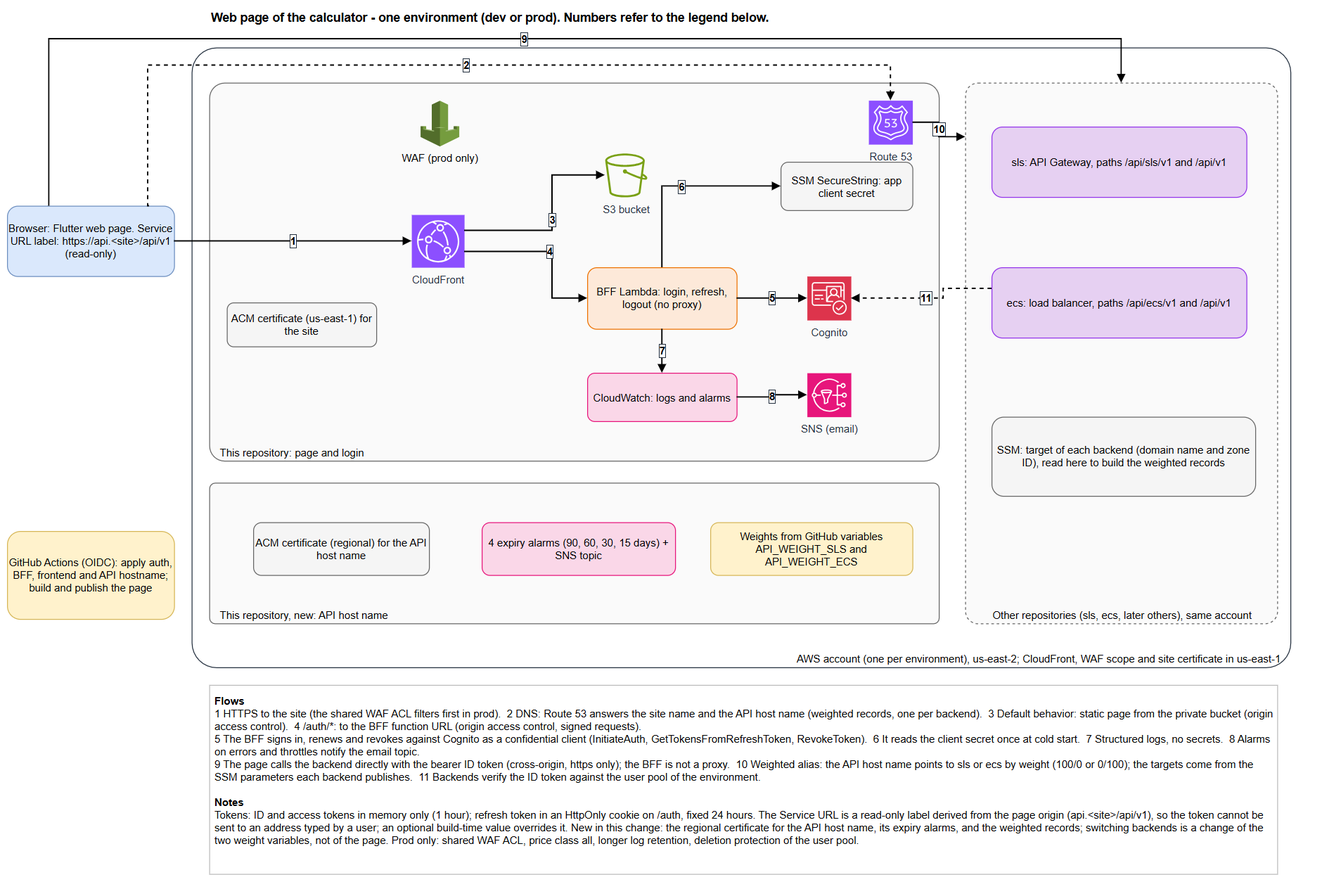
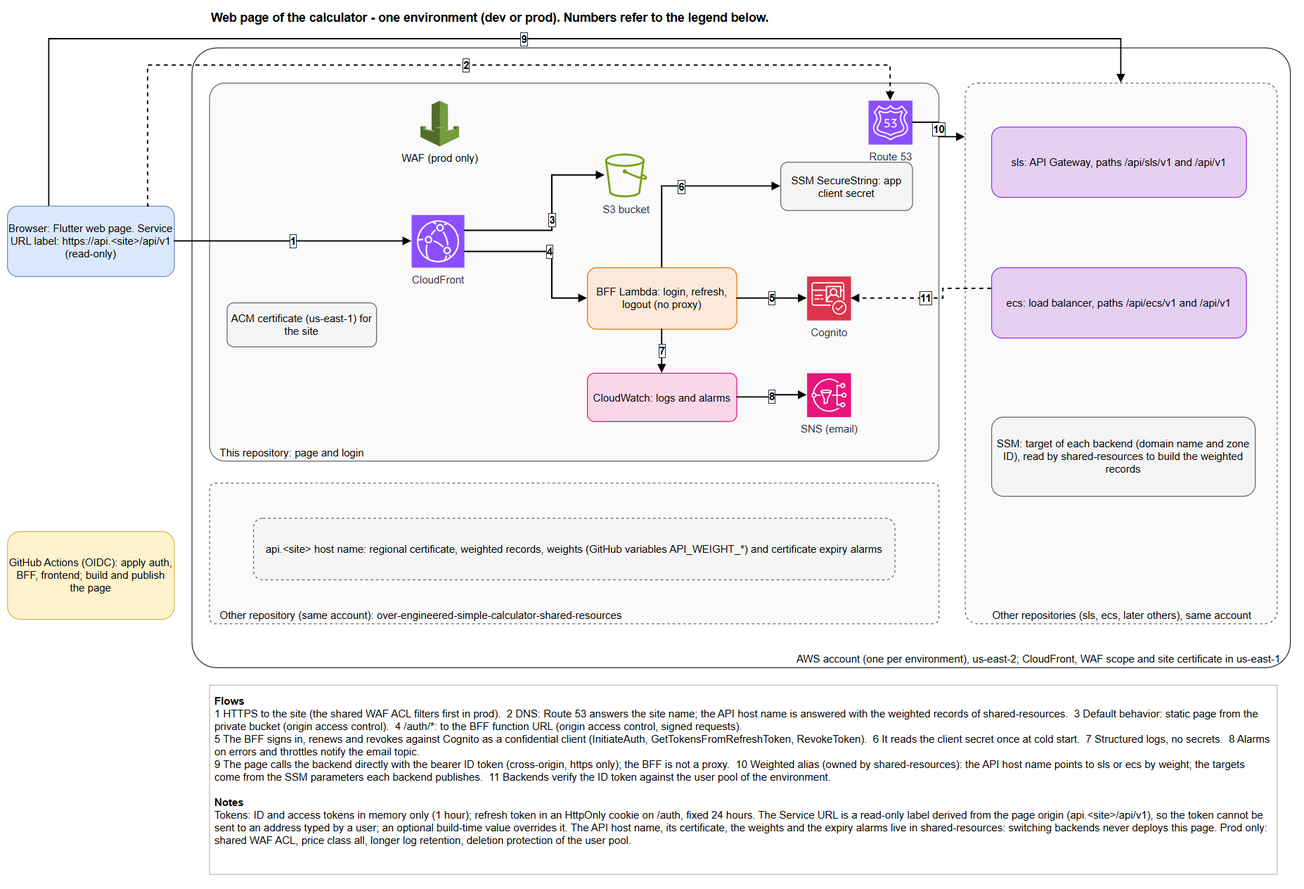
Remove the API edge from this repository after its handover to shared-resources

diff --git a/docs/architecture.md b/docs/architecture.md
@@ -8,7 +8,7 @@ Diagram: [`architecture.drawio`](architecture.drawio) (exported as `architecture
 
 The BFF (backend for frontend) is **an AWS Lambda function deployed by this repository** (`modules/auth-bff`, code in `src/auth_bff`). It runs **behind the page's CloudFront distribution**: CloudFront routes `/auth/*` to the function's function URL and everything else to the S3 bucket. It is **not code running inside CloudFront** (not a CloudFront Function and not Lambda@Edge).
 
-Its only job is the session: login, refresh and logout against Amazon Cognito, keeping the long-lived refresh token in an `HttpOnly` cookie. It authenticates to Cognito as a confidential app client: the client secret lives in an SSM SecureString parameter and the BFF reads it once at cold start (see [ADR 0004](adr/0004-confidential-app-client.md)). It is not a proxy: the page calls the chosen backend (sls, ecs, ...) directly with a bearer token, so the page stays shared between backends. Which backend answers is decided in Route 53 by the weighted records of the shared API hostname, owned by this repository (see [Shared API hostname](#shared-api-hostname)).
+Its only job is the session: login, refresh and logout against Amazon Cognito, keeping the long-lived refresh token in an `HttpOnly` cookie. It authenticates to Cognito as a confidential app client: the client secret lives in an SSM SecureString parameter and the BFF reads it once at cold start (see [ADR 0004](adr/0004-confidential-app-client.md)). It is not a proxy: the page calls the chosen backend (sls, ecs, ...) directly with a bearer token, so the page stays shared between backends. Which backend answers is decided in Route 53 by the weighted records of the shared API hostname, owned by the repository `over-engineered-simple-calculator-shared-resources` (see [Shared API hostname](#shared-api-hostname)).
 
 ## Components
 
@@ -21,9 +21,8 @@ Its only job is the session: login, refresh and logout against Amazon Cognito, k
 | Cognito user pool + confidential app client | this repo, us-east-2 | Local users created by the owner. Issues the tokens. The client has a secret, so only the BFF can sign in, renew or revoke. |
 | SSM parameter (SecureString) | this repo, us-east-2 | Holds the app client secret (`/<context>/<env>/auth/app-client-secret`, standard tier, AWS managed key). Read by the BFF role only. |
 | CloudWatch logs and alarms | us-east-2 | One JSON line per request; alarms on Errors and Throttles notify a dedicated SNS topic (us-east-2, email). |
-| API certificate | this repo (`modules/api-hostname`), us-east-2 | Regional ACM certificate for `api.<web domain>`, DNS validated; ARN published in SSM `/oecalc/<env>/api-certificate-arn` for the backends. Expiry alarms with a us-east-2 SNS topic. |
-| Weighted API records | this repo, Route 53 | One weighted `A` alias per backend that has published its target; weights from `API_WEIGHT_SLS` and `API_WEIGHT_ECS`. |
-| Backends (sls, ecs, ...) | other repositories | Publish their target in SSM (`/oecalc/<env>/api-backends/<backend>/...`); answer the neutral path `/api/v1`. Validate the ID token with the pool of their environment (`COGNITO_USER_POOL_ID`, `COGNITO_APP_CLIENT_ID`). |
+| API hostname, certificate and weighted records | `over-engineered-simple-calculator-shared-resources` (not this repo) | `api.<web domain>`, its regional certificate, the weighted records and their expiry alarms. Moved there on 2026-10-07. |
+| Backends (sls, ecs, ...) | other repositories | Answer the neutral path `/api/v1` on that hostname. Validate the ID token with the pool of their environment (`COGNITO_USER_POOL_ID`, `COGNITO_APP_CLIENT_ID`). |
 
 ## Trust boundaries
 
@@ -74,7 +73,7 @@ sequenceDiagram
     Note over P: ID and access token kept in memory only
 
     Note over P,API: Use
-    P->>API: calculation or history at api.<site>/api/v1 with Authorization Bearer ID token (Route 53 weights pick sls or ecs)
+    P->>API: calculation or history at api.<site>/api/v1 with Authorization Bearer ID token (the weights in Route 53, owned by shared-resources, pick sls or ecs)
 
     Note over P,B: Refresh (page start, or ID token expires in less than 60 s, or backend 401)
     P->>CF: POST /auth/refresh (browser adds the cookie)
@@ -109,7 +108,7 @@ All differences are in `environments/<env>/env.hcl`; the Terragrunt units are id
 
 ## Resource inventory
 
-One row per resource (or group) created or changed by this repository. Name pattern: `<acronym>-<region>-<context>[-<descriptor>]-<env>` with `<region>` written without hyphens (`useast2`), `<context>` = `oecalc` and `<env>` = `dev` or `prod`. `<account-id>` is the AWS account of the environment. Status: **new** = added by spec 001-cognito-auth-bff or, where marked, by spec 002-ecs-backend-cutover; **changed** = existed before and was modified; **kept** = pre-existing and unchanged by the spec. Every resource carries the mandatory tags from `environments/root.hcl` (`team-owner`, `project-name`, `app-name`, `repo-name`, `env-type`).
+One row per resource (or group) created or changed by this repository. Name pattern: `<acronym>-<region>-<context>[-<descriptor>]-<env>` with `<region>` written without hyphens (`useast2`), `<context>` = `oecalc` and `<env>` = `dev` or `prod`. `<account-id>` is the AWS account of the environment. Status: **new** = added by spec 001-cognito-auth-bff; **changed** = existed before and was modified; **kept** = pre-existing and unchanged by the spec. Every resource carries the mandatory tags from `environments/root.hcl` (`team-owner`, `project-name`, `app-name`, `repo-name`, `env-type`).
 
 | Resource | IaC type | Real name (pattern) | Purpose | Env / dev vs prod | Status / cost note |
 |---|---|---|---|---|---|
@@ -133,16 +132,9 @@ One row per resource (or group) created or changed by this repository. Name patt
 | ACM certificate and validation | `aws_acm_certificate`, `aws_acm_certificate_validation` (us-east-1) | Name tag `acm-useast2-oecalc-web-<env>` | TLS for the custom domain, DNS validated, RSA 2048 | dev and prod, domain differs | kept |
 | Route 53 records | `aws_route53_record` (validation CNAME, `A` and `AAAA` alias) | the environment's domain name, in the hosted zone `<route53-zone-id>` of the account | DNS to CloudFront | dev and prod, domain differs | kept |
 | Web alert topic and certificate alarms | `aws_sns_topic`, policy, email subscription, `aws_cloudwatch_metric_alarm` x4 (us-east-1) | `sns-useast1-oecalc-web-alerts-<env>`, `alrm-useast1-oecalc-web-cert-expiry-<N>d-<env>` with N = 90, 60, 30, 15 (four alarms) | Certificate expiry (ACM metric exists only in us-east-1) | dev and prod, same | kept |
-| API certificate | `aws_acm_certificate` (us-east-2) | Name tag `acm-useast2-oecalc-api-<env>`; domain `api.<web domain>` | Regional TLS certificate of the shared API hostname, RSA 2048, DNS validated, `create_before_destroy` | dev and prod, domain differs | new (002); free |
-| API certificate validation | `aws_route53_record` (CNAME, `allow_overwrite`), `aws_acm_certificate_validation` | validation name generated by ACM, in the environment's hosted zone | Validates the API certificate; the record may already exist (written before by the sls repository) and must not be deleted while another certificate uses it | dev and prod, same | new (002) |
-| API certificate ARN parameter | `aws_ssm_parameter` (`String`, standard) | `/oecalc/<env>/api-certificate-arn`; Name tag `ssm-useast2-oecalc-api-certificate-arn-<env>` | Contract: backends read the ARN to attach the certificate to their custom domain | dev and prod, same | new (002); no charge |
-| Weighted API records | `aws_route53_record` (`A` alias, weighted, `for_each` over published backends) | `api.<web domain>`, set identifier `sls` or `ecs` | Route traffic by weight; target read from `/oecalc/<env>/api-backends/<backend>/{dns-name,hosted-zone-id}`; a backend that has not published is skipped | weights from `API_WEIGHT_SLS` and `API_WEIGHT_ECS`; dev currently sls 0, ecs 100 | new (002); alias queries to AWS targets are not charged, hosted zone unchanged |
-| Weights guard | `terraform_data` with a precondition | `weights_guard` (no cloud resource) | Fails the plan when every published backend has weight 0 | dev and prod, same | new (002) |
-| API alert topic | `aws_sns_topic`, policy, email subscription (us-east-2) | `sns-useast2-oecalc-api-alerts-<env>` | Notifies the certificate expiry alarms; policy allows `cloudwatch.amazonaws.com` of this account and denies insecure transport | dev and prod, same | new (002); AWS managed encryption only (same as G8) |
-| API certificate expiry alarms | `aws_cloudwatch_metric_alarm` x4 | `alrm-useast2-oecalc-api-cert-expiry-<N>d-<env>`, N = 90, 60, 30, 15 | `DaysToExpiry` below N days (certificate moved here from sls with its monitoring) | dev and prod, same | new (002); standard alarm price each |
-| Terraform state | S3 bucket `bckt-useast2-tf-state-<env>-<account-id>` (outside this repository) | one state file per unit, key `over-engineered-simple-calculator-webpage/<env>/<unit path>/terraform.tfstate` (`edge/auth`, `edge/auth-bff`, `edge/frontend`, `api-hostname`) | Remote state with native locking; also holds the client secret in clear text (gap G10) | dev and prod | kept |
+| Terraform state | S3 bucket `bckt-useast2-tf-state-<env>-<account-id>` (outside this repository) | one state file per unit, key `over-engineered-simple-calculator-webpage/<env>/<unit path>/terraform.tfstate` (`edge/auth`, `edge/auth-bff`, `edge/frontend`) | Remote state with native locking; also holds the client secret in clear text (gap G10) | dev and prod | kept |
 
-Removed: no Terraform resource was removed by specs 001 or 002. In the page, the API key field and header were replaced by the Cognito login (001) and the editable Service URL field by a read-only label (002).
+Removed from the state of this repository (spec 003-move-api-edge-out, not deleted in AWS; now owned by `over-engineered-simple-calculator-shared-resources`): the API certificate and its validation, the SSM parameter `/oecalc/<env>/api-certificate-arn`, the weighted API records, the weights guard, the API alert topic (policy and subscription) and the four API certificate expiry alarms. The pattern is in [`migrations/`](migrations/README.md). In the page, the API key field and header were replaced by the Cognito login (001) and the editable Service URL field by a read-only label (002).
 
 ### Known gaps in the inventory
 
@@ -153,13 +145,13 @@ Removed: no Terraform resource was removed by specs 001 or 002. In the page, the
 
 ## Deployment units
 
-`environments/<env>/edge/auth` (Cognito) -> `edge/auth-bff` (Lambda, alarms; needs the app client ID) -> `edge/frontend` (S3, CloudFront, certificate, DNS; needs the function name and URL host). Terragrunt orders them by dependency. `environments/<env>/api-hostname` (API certificate, weighted records, alarms) depends on none of them. The Lambda permission for CloudFront lives in `modules/frontend` because it needs the distribution ARN.
+`environments/<env>/edge/auth` (Cognito) -> `edge/auth-bff` (Lambda, alarms; needs the app client ID) -> `edge/frontend` (S3, CloudFront, certificate, DNS; needs the function name and URL host). Terragrunt orders them by dependency. The Lambda permission for CloudFront lives in `modules/frontend` because it needs the distribution ARN.
 
 ## Shared API hostname
 
-`api.<web domain>` (for example `api.over-engineered-simple-calculator.dev.nube-segura.com` in dev) is owned by this repository ([ADR 0006](adr/0006-weights-owned-by-the-webpage-repository.md)). It resolves through weighted alias records, one per backend (`sls`, `ecs`, later others), to the load balancer or API Gateway domain that the backend publishes in SSM. All backends answer `/api/v1` ([ADR 0007](adr/0007-neutral-api-path.md)) and use the shared regional certificate whose ARN is in `/oecalc/<env>/api-certificate-arn`. Changing the GitHub variables `API_WEIGHT_SLS` and `API_WEIGHT_ECS` and redeploying this repository moves traffic; neither the page nor the backends change. dev currently sends all traffic to ecs (sls 0, ecs 100).
+`api.<web domain>` (for example `api.over-engineered-simple-calculator.dev.nube-segura.com` in dev) is **not owned by this repository any more**. Since 2026-10-07 the repository `over-engineered-simple-calculator-shared-resources` owns the hostname, its regional certificate (ARN in SSM `/oecalc/<env>/api-certificate-arn`), the weighted alias records, the weights and the certificate expiry alarms, and supersedes [ADR 0006](adr/0006-weights-owned-by-the-webpage-repository.md). All backends answer `/api/v1` ([ADR 0007](adr/0007-neutral-api-path.md)). A backend's record is created from shared-resources and changing weights never rebuilds the page.
 
-The module refuses to plan when every published backend has weight 0. **Known limitation:** a backend's record appears only when this repository is deployed after the backend has published its SSM target (two-phase first deployment). A recorded, undecided option removes it with stable predictable targets and a separate path-filtered workflow for DNS and weights.
+What stays here: the page computes the read-only Service URL from its own host and sends the ID token to it; Cognito and the BFF issue the token. This repository forgot the moved resources with `removed` blocks (`destroy = false`), see [migrations](migrations/README.md).
 
 ## Error handling in the BFF
 
@@ -175,4 +167,4 @@ These items are built but have not been checked against a deployed environment:
 - the `boto3` version of the Lambda runtime (it must include `get_tokens_from_refresh_token`; otherwise boto3 must be packaged);
 - whether the Cognito console can mark a new user's password as permanent;
 - that Cognito refuses a direct `InitiateAuth` for the client without the secret hash (task 6.6).
-- the shared API hostname in a deployed environment (certificate issued, weighted records, handover of the existing sls record); verification of `dev` is tracked in the spec, not confirmed here.
+- that the first deployment of each environment after spec 003 shows no changes for the moved resources (the `removed` blocks were applied only after shared-resources adopted them); tracked in the spec, not confirmed here.

diff --git a/README.md b/README.md
@@ -16,7 +16,7 @@ The address is calculated in `lib/api_address.dart`: `api.` plus the host of the
 
 Each calculation does `POST <Service URL>/<add|sub|mul|div>` with `{"a": <number>, "b": <number>}` and the header `Authorization: Bearer <ID token>`. The page sends the token only to `https` addresses (or `http://localhost` and `http://127.0.0.1` for a local override); any other address is refused and no request is made. The backends validate the token against the Cognito user pool of their environment (see [Login flow](#login-flow)).
 
-Which backend answers is decided in Route 53, not in the page: see [Shared API hostname](#shared-api-hostname).
+Which backend answers is decided in Route 53, not in the page. The API hostname, its certificate and the weights belong to another repository: see [Shared API hostname](#shared-api-hostname).
 
 ### Login flow
 
@@ -53,16 +53,14 @@ src/auth_bff/              BFF Lambda (Python): handler.py, src/auth_bff/, tests
 modules/frontend/          Terraform module: S3, CloudFront (OAC, /auth/* behavior), ACM, Route 53
 modules/auth/              Terraform module: Cognito user pool and app client
 modules/auth-bff/          Terraform module: BFF Lambda, function URL, role, logs, SNS topic, alarms
-modules/api-hostname/      Terraform module: API certificate, weighted records per backend, expiry alarms
 environments/
   root.hcl                 Provider, S3 remote state, naming and mandatory tags
-  common/*.hcl             Shared unit configs (frontend, auth, auth-bff, api-hostname)
+  common/*.hcl             Shared unit configs (frontend, auth, auth-bff)
   dev/env.hcl, prod/env.hcl  Only place where environments differ
   <env>/edge/frontend/     Thin Terragrunt unit
   <env>/edge/auth/         Thin Terragrunt unit
   <env>/edge/auth-bff/     Thin Terragrunt unit
-  <env>/api-hostname/      Thin Terragrunt unit (independent of the edge units)
-docs/                      Architecture, technical and functional docs, ADRs, architecture.drawio
+docs/                      Architecture, technical and functional docs, ADRs, migrations, architecture.drawio
 .github/                   CI, reusable deploy workflow, dev/prod entrypoints
 ```
 
@@ -78,7 +76,7 @@ Per environment (each one deployed to its own AWS account, region `us-east-2`):
 - **ACM certificate** (us-east-1, DNS validated in Route 53) and `A`/`AAAA` alias records.
 - **Certificate expiry alarms** (90, 60, 30 and 15 days) with an SNS email topic, both in us-east-1.
 - **BFF alarms** (Lambda `Errors` and `Throttles`) with their own SNS email topic in us-east-2, see [Alerts](#alerts).
-- **API hostname** (`modules/api-hostname`): regional ACM certificate for `api.<web domain>`, weighted Route 53 records per backend, expiry alarms with a us-east-2 SNS topic, see [Shared API hostname](#shared-api-hostname).
+- **API hostname:** not part of this repository since 2026-10-07 (certificate, weighted records and their alarms), see [Shared API hostname](#shared-api-hostname).
 - **prod only:** the distribution is associated with an existing shared WAF web ACL, see [WAF in prod](#waf-in-prod).
 
 ### Why part of the stack is in us-east-1
@@ -156,30 +154,11 @@ Create both as **GitHub environment variables** with the same names, in the envi
 
 ### Shared API hostname
 
-This repository owns the exposure of the API: the hostname `api.<web domain>` (`api.over-engineered-simple-calculator.dev.nube-segura.com` in dev, `api.over-engineered-simple-calculator.nube-segura.com` in prod), its certificate and which backend receives the traffic ([ADR 0006](docs/adr/0006-weights-owned-by-the-webpage-repository.md)). Backends are interchangeable and answer the neutral path `/api/v1` ([ADR 0007](docs/adr/0007-neutral-api-path.md)).
+Since 2026-10-07 the exposure of the API belongs to the repository `over-engineered-simple-calculator-shared-resources`: the hostname `api.<web domain>`, its regional certificate (published in SSM at `/oecalc/<env>/api-certificate-arn`), the weighted Route 53 records, the weights (GitHub variables `API_WEIGHT_*` of that repository) and the certificate expiry alarms with their SNS topic. Its documentation is the reference for the contract with the backends and for changing weights. This repository no longer creates, reads or needs any of them.
 
-**What `modules/api-hostname` creates (per environment):**
+This repository forgot those resources with Terraform `removed` blocks (`destroy = false`) after the new owner imported them; nothing was deleted in AWS. See [`docs/migrations/`](docs/migrations/README.md). The decision of this repository owning them ([ADR 0006](docs/adr/0006-weights-owned-by-the-webpage-repository.md)) is superseded. Backends answer the neutral path `/api/v1` ([ADR 0007](docs/adr/0007-neutral-api-path.md)).
 
-- A regional ACM certificate (us-east-2, RSA 2048, DNS validated in the environment's hosted zone) for the API hostname. The validation record is written with `allow_overwrite`, because it may already exist from the sls repository. Its ARN is published in SSM at `/oecalc/<env>/api-certificate-arn` (standard `String`).
-- Expiry alarms at 90, 60, 30 and 15 days with their own SNS email topic in us-east-2 (`SUPPORT_EMAIL`). Confirm the subscription from the inbox after the first apply.
-- One weighted `A` alias record per registered backend, with the backend name as set identifier. Alias records inherit the TTL of their target.
-
-**Contract with the backends.** Each backend repository publishes, in the same account and region, two SSM parameters:
-
-```
-/oecalc/<env>/api-backends/<backend>/dns-name
-/oecalc/<env>/api-backends/<backend>/hosted-zone-id
-```
-
-and reads the certificate ARN from `/oecalc/<env>/api-certificate-arn` to attach it to its own custom domain. The registered backends are `sls` and `ecs`.
-
-**Weights.** The GitHub environment variables `API_WEIGHT_SLS` and `API_WEIGHT_ECS` (integers 0 to 255) set the weight of each backend; an unset or non-numeric value counts as 0. The deploy refuses to run when both are empty, and the plan fails when every published backend has weight 0, so the hostname is never left without an answer. Current setting: **dev** `API_WEIGHT_SLS=0`, `API_WEIGHT_ECS=100` (owner decision 2026-10-06); prod is handled by the owner. To move traffic, change the two variables and redeploy this repository; to go back, change them again.
-
-**Add a backend:** one entry in `api_backends` of `environments/<env>/env.hcl`, one variable `API_WEIGHT_<NAME>` in `deploy.yml` (plus the all-empty check), and the backend publishes its two parameters.
-
-**Known limitation: two-phase first deployment.** A backend's record exists only when its two SSM parameters exist at plan time (an unpublished backend is skipped without failing). The first time, deploy the backend (it publishes its target), then deploy this repository again to create its record. Removing this dependency is a recorded option, not decided: give each backend a stable, predictable target so the records are built from configuration instead of SSM discovery, and move DNS and weights to their own path-filtered workflow so changing weights does not rebuild or redeploy the page.
-
-**Handover of an existing simple record** (the sls record that predates the weighted ones): in prod the owner runs one atomic Route 53 change (delete the simple record and create the weighted one together) and this repository then takes it over; the order is defined in the companion sls spec.
+What stays here for the API: the page calculates the read-only Service URL (`https://api.<host of the page>/api/v1`) and sends the ID token to it; Cognito and the BFF issue the token. Changing weights never rebuilds or redeploys the page.
 
 ### Run Terragrunt by hand
 
@@ -191,7 +170,7 @@ terragrunt run --all plan
 terragrunt run --all apply
 ```
 
-`run --all` orders the units by their dependencies: `edge/auth`, then `edge/auth-bff`, then `edge/frontend`. The `api-hostname` unit has no dependency on them. Export `API_WEIGHT_SLS` and `API_WEIGHT_ECS` as well (or put them in `environments/<env>/secrets.yml`); with both at 0 and a published backend the plan fails on purpose.
+`run --all` orders the units by their dependencies: `edge/auth`, then `edge/auth-bff`, then `edge/frontend`.
 
 ### Publish the app by hand
 
@@ -213,16 +192,15 @@ aws cloudfront create-invalidation --distribution-id "$DISTRIBUTION_ID" --paths 
 1. **This repository first**: deploy `dev` (push to `develop`) or `prod` (push to `main`). The workflow creates the pool, the BFF and the distribution, publishes the page and prints the two Cognito values.
 2. Confirm the SNS email subscriptions, and create the user(s) with a permanent password.
 3. **Then the variables**: create `COGNITO_USER_POOL_ID` and `COGNITO_APP_CLIENT_ID` in the matching GitHub environment of each backend repository.
-4. **Then the backend** repositories, which validate tokens with that pool and publish their target in SSM.
-5. **Deploy this repository once more** so the weighted record of each newly published backend is created (see the two-phase limitation in [Shared API hostname](#shared-api-hostname)).
+4. **Then the backend** repositories, which validate tokens with that pool. Their record under `api.<web domain>` is created from the shared-resources repository (see [Shared API hostname](#shared-api-hostname)); this repository is not deployed again for it.
 
 ## CI/CD (gitflow)
 
-- `ci.yml` (pull requests to `develop` / `main`, reused by the deploys): Flutter job (`flutter analyze`, `flutter test`, `flutter build web --no-web-resources-cdn`), BFF job (installs the fully pinned `requirements-dev.txt`, `pip-audit`, `ruff check`, `ruff format --check`, `mypy`, `lint-imports`, `pytest` with at least 85% coverage), IaC job (`terraform fmt`, `terragrunt hcl fmt`, mandatory tags and remote state checks) and a Terraform job (`terraform validate` of each module, including `api-hostname`, without credentials).
+- `ci.yml` (pull requests to `develop` / `main`, reused by the deploys): Flutter job (`flutter analyze`, `flutter test`, `flutter build web --no-web-resources-cdn`), BFF job (installs the fully pinned `requirements-dev.txt`, `pip-audit`, `ruff check`, `ruff format --check`, `mypy`, `lint-imports`, `pytest` with at least 85% coverage), IaC job (`terraform fmt`, `terragrunt hcl fmt`, mandatory tags and remote state checks) and a Terraform job (`terraform validate` of each module, without credentials).
 - Dependabot (weekly) covers `pub`, `pip` (`/src/auth_bff`), GitHub Actions and Terraform.
 - `deploy-dev.yml` (push to `develop`) and `deploy-prod.yml` (push to `main`) run CI and then `deploy.yml`: configuration check, OIDC login, account check, `terragrunt run --all plan/apply`, the Cognito hand-off summary, Flutter build, `s3 sync`, CloudFront invalidation, a smoke test of the public URL and a smoke test of the BFF (`POST /auth/refresh` without a cookie must answer 401 with a JSON body).
 
-Each GitHub environment (`dev`, `prod`) needs the secrets `ROLE_ARN`, `AWS_ACCOUNT_ID` and `SUPPORT_EMAIL` (alert address) and the variables `AWS_REGION` and `ROUTE53_ZONE_ID`, and at least one of `API_WEIGHT_SLS` and `API_WEIGHT_ECS`. The `prod` environment also needs the variable `WAF_WEB_ACL_ARN`, and should require reviewers so the apply waits for a manual approval.
+Each GitHub environment (`dev`, `prod`) needs the secrets `ROLE_ARN`, `AWS_ACCOUNT_ID` and `SUPPORT_EMAIL` (alert address) and the variables `AWS_REGION` and `ROUTE53_ZONE_ID`. The `prod` environment also needs the variable `WAF_WEB_ACL_ARN`, and should require reviewers so the apply waits for a manual approval.
 
 ## Gitflow and first deployment
 
@@ -239,7 +217,6 @@ Each GitHub environment needs:
 | Secret | `SUPPORT_EMAIL` | Address of the alert subscriptions |
 | Variable | `AWS_REGION` | Must match `aws_region` in `env.hcl` (`us-east-2`) |
 | Variable | `ROUTE53_ZONE_ID` | Hosted zone of that account |
-| Variable | `API_WEIGHT_SLS`, `API_WEIGHT_ECS` | Routing weights 0-255 of each backend behind `api.<web domain>`; at least one must be set, and one above 0 once a backend has published its target |
 | Variable | `API_BASE_URL` | Optional: build-time override of the Service URL label (empty = calculated address) |
 | Variable | `WAF_WEB_ACL_ARN` | **prod only**: existing CloudFront-scope web ACL in us-east-1 |
 
@@ -253,9 +230,8 @@ The OIDC deployment role needs permissions for the services below (a checklist; 
 - [ ] CloudWatch (log group and alarms)
 - [ ] CloudFront (distribution, origin access controls, response headers policy)
 - [ ] S3 (the web bucket and the Terraform state)
-- [ ] ACM (certificates in us-east-1 and, for the API hostname, in us-east-2)
-- [ ] Route 53 (records in the environment's zone, including the weighted API records)
-- [ ] SSM (read the backend target parameters, write the certificate ARN parameter)
+- [ ] ACM (the certificate in us-east-1)
+- [ ] Route 53 (records in the environment's zone)
 
 After the first deployment of an environment follow [Deployment order](#deployment-order): confirm the SNS subscriptions, create the users and hand the two Cognito values to the backends.
 

diff --git a/docs/technical.md b/docs/technical.md
@@ -18,8 +18,7 @@ src/auth_bff/                  BFF Lambda
 modules/auth/                  Cognito user pool, confidential app client, SSM parameter with the client secret
 modules/auth-bff/              Lambda, function URL, role, log group, SNS topic, alarms
 modules/frontend/              S3, CloudFront (two origins), response headers policy, ACM, Route 53, Lambda permissions
-modules/api-hostname/          Regional ACM certificate for api.<web domain>, weighted alias records per backend, expiry alarms
-environments/                  root.hcl, common/*.hcl, <env>/env.hcl, <env>/edge/{auth,auth-bff,frontend}, <env>/api-hostname
+environments/                  root.hcl, common/*.hcl, <env>/env.hcl, <env>/edge/{auth,auth-bff,frontend}
 ```
 
 Layers of the BFF (enforced by import-linter): `config -> adapters -> application -> domain`. Domain and application must not import `boto3` or `botocore` (the SSM read goes through the `SecretReader` port); inbound adapters must not import outbound adapters.
@@ -222,11 +221,11 @@ One JSON line per request with `endpoint`, `status`, `outcome` (`ok` or the erro
 - Flutter: `flutter pub get`, `flutter analyze`, `flutter test`, `flutter build web --release --no-web-resources-cdn`.
 - BFF (`src/auth_bff`, Python 3.14): `pip install -r requirements-dev.txt` (fully pinned, compiled from `pyproject.toml`, so CI installs only pinned packages) and `pip install --no-deps -e .`, `pip-audit` (pinned version) over `requirements-dev.txt`, `ruff check .`, `ruff format --check .`, `mypy src handler.py` (strict), `lint-imports`, `pytest` (coverage gate 85%, `--cov-fail-under=85`).
 - IaC: `terraform fmt -check -recursive modules`, `terragrunt hcl fmt --check`, mandatory tags in `root.hcl` (`repo-name` equals the repository name), S3 remote state present.
-- Terraform validate (no credentials): `terraform init -backend=false` and `terraform validate` for `modules/auth`, `modules/auth-bff` and `modules/api-hostname`, and for `modules/frontend` through a temporary root in the runner's temp directory that declares both provider aliases.
+- Terraform validate (no credentials): `terraform init -backend=false` and `terraform validate` for `modules/auth` and `modules/auth-bff`, and for `modules/frontend` through a temporary root in the runner's temp directory that declares both provider aliases.
 
 Dependabot (`.github/dependabot.yml`, weekly): `pub` (`/src/calculator_app`), `pip` (`/src/auth_bff`), `github-actions` and `terraform` (`/modules/*`).
 
-`deploy.yml` adds: environment validation (secrets `ROLE_ARN`, `AWS_ACCOUNT_ID`, `SUPPORT_EMAIL`, variables `AWS_REGION`, `ROUTE53_ZONE_ID`, at least one of `API_WEIGHT_SLS` and `API_WEIGHT_ECS`, and `WAF_WEB_ACL_ARN` in prod), branch check, OIDC login, account check, plan, apply, the Cognito hand-off summary, build, publish, the page smoke test and the BFF smoke test. The Flutter build adds `--dart-define=API_BASE_URL=<value>` only when the GitHub variable `API_BASE_URL` is set.
+`deploy.yml` adds: environment validation (secrets `ROLE_ARN`, `AWS_ACCOUNT_ID`, `SUPPORT_EMAIL`, variables `AWS_REGION`, `ROUTE53_ZONE_ID`, and `WAF_WEB_ACL_ARN` in prod), branch check, OIDC login, account check, plan, apply, the Cognito hand-off summary, build, publish, the page smoke test and the BFF smoke test. The Flutter build adds `--dart-define=API_BASE_URL=<value>` only when the GitHub variable `API_BASE_URL` is set.
 
 ## Page: the API address and where the bearer token is sent
 
@@ -234,19 +233,8 @@ Dependabot (`.github/dependabot.yml`, weekly): `pub` (`/src/calculator_app`), `p
 
 `lib/api_client.dart` sends `Authorization: Bearer <ID token>` only when the address is trusted: scheme `https` with a host, or `http` to `localhost` or `127.0.0.1` for local runs (overrides). For any other URL the page shows "The Service URL must use https." (calculation and history) and makes no request that carries the token.
 
-## Shared API hostname (`modules/api-hostname`)
+## Shared API hostname (owned elsewhere)
 
-Rationale: [ADR 0006](adr/0006-weights-owned-by-the-webpage-repository.md) and [ADR 0007](adr/0007-neutral-api-path.md). Unit `environments/<env>/api-hostname` (identical in both environments, config in `environments/common/api-hostname.hcl`, no dependency on the edge units, state key `<repo>/<env>/api-hostname/terraform.tfstate`).
+Since 2026-10-07 the API certificate, the SSM parameter `/oecalc/<env>/api-certificate-arn`, the weighted Route 53 records, the weights and the certificate expiry alarms with their SNS topic belong to the repository `over-engineered-simple-calculator-shared-resources` (its documentation describes the module, the weights and the contract with the backends). This repository has no `api-hostname` module or unit and no `API_WEIGHT_*` variables. [ADR 0006](adr/0006-weights-owned-by-the-webpage-repository.md) is superseded; [ADR 0007](adr/0007-neutral-api-path.md) (neutral path `/api/v1`) still applies.
 
-Inputs (from `env.hcl`): `web_domain_name`, `zone_id` (`ROUTE53_ZONE_ID`), `backends` (map name to weight), `alert_email` (`SUPPORT_EMAIL`), `certificate_expiry_alert_days` (default 90, 60, 30, 15). Outputs: `certificate_arn`, `api_domain_name`, `active_backends`.
-
-- **Certificate:** `aws_acm_certificate.api` for `api.<web domain>` in the deployment region (us-east-2), DNS validation, RSA 2048, `create_before_destroy`; a precondition fails the plan when the hostname is not under the hosted zone. Validation record with `allow_overwrite = true`. SSM parameter `/oecalc/<env>/api-certificate-arn` (`String`, standard tier).
-- **Registry:** `data.aws_ssm_parameters_by_path` reads `/oecalc/<env>/api-backends` recursively. A backend in `var.backends` is active only if both `<backend>/dns-name` and `<backend>/hosted-zone-id` exist; otherwise it is skipped without failing.
-- **Weights guard:** `terraform_data.weights_guard` has a precondition that fails the plan when backends are published and all their weights are 0. The records depend on it.
-- **Records:** `aws_route53_record.api`, type `A`, one per active backend, `set_identifier` = backend name, `weighted_routing_policy.weight`, alias to the published DNS name and zone ID, `evaluate_target_health = false`. Alias records inherit the TTL of their target (the "60 seconds or lower" of the requirement is met by the short TTL of API Gateway and load balancer aliases, not by an explicit value).
-- **Weights:** `api_backends` in each `env.hcl` reads `API_WEIGHT_SLS` and `API_WEIGHT_ECS` (an unset or non-numeric value is 0; validation: integers 0 to 255, names `[a-z0-9-]`). `deploy.yml` fails early when both are empty.
-- **Alarms:** SNS topic `sns-useast2-oecalc-api-alerts-<env>` (policy for `cloudwatch.amazonaws.com` of the account, denies insecure transport, email subscription) and four alarms `alrm-useast2-oecalc-api-cert-expiry-<N>d-<env>` on `AWS/CertificateManager` `DaysToExpiry` (`Minimum`, daily, `LessThanThreshold`, missing data not breaching).
-
-Contract with the backends: SSM parameters `/oecalc/<env>/api-backends/<backend>/dns-name` and `.../hosted-zone-id` (published by the backend), and `/oecalc/<env>/api-certificate-arn` (published here). To add a backend: one entry in `api_backends` (both `env.hcl` files), one `API_WEIGHT_<NAME>` variable in `deploy.yml` and its check.
-
-Known limitation (two-phase first deployment): the record of a backend appears only when this repository is deployed after the backend has published its target. Recorded, undecided option: stable predictable backend targets so records come from configuration, and a path-filtered workflow for DNS and weights that does not rebuild the page.
+The removed Terraform state entries were forgotten with `removed` blocks and `destroy = false`; nothing was deleted in AWS. See [`migrations/README.md`](migrations/README.md).

diff --git a/docs/migrations/README.md b/docs/migrations/README.md
@@ -1,0 +1,7 @@
+# Migrations
+
+`003-move-api-edge-out/removed.tf.example` is a model of the Terraform `removed` blocks that this repository used when the API certificate, the SSM parameter with its ARN, the weighted Route 53 records, the weights guard and the certificate expiry alarms (with their SNS topic) moved to the repository `over-engineered-simple-calculator-shared-resources`. It is an example kept for reference, not part of any module, so it is never applied by the pipeline.
+
+The pattern: the new owner first imports the existing resources into its own state; only then does the old owner add a `removed` block per resource with `lifecycle { destroy = false }`. Terraform forgets the resource in the old state and deletes nothing in AWS, so there is no downtime and no re-creation.
+
+Warning: never apply `removed` blocks before the new owner has adopted the resources in the same environment. Until then the old state is the only one that knows them, and a mistake (for example a block without `destroy = false`, or removing the resource definition without a block) would delete live certificates, records or alarms.

diff --git a/docs/adr/0006-weights-owned-by-the-webpage-repository.md b/docs/adr/0006-weights-owned-by-the-webpage-repository.md
@@ -1,6 +1,6 @@
 # 0006. The webpage repository owns the API hostname, its certificate and the traffic weights
 
-Status: accepted (owner decision, 2026-10-05)
+Status: Superseded by ADR 0001 of the repository `over-engineered-simple-calculator-shared-resources` (2026-10-07). The hostname, certificate, weighted records, weights and expiry alarms moved there; this text is kept as history. Originally accepted by the owner on 2026-10-05.
 
 ## Context
 
